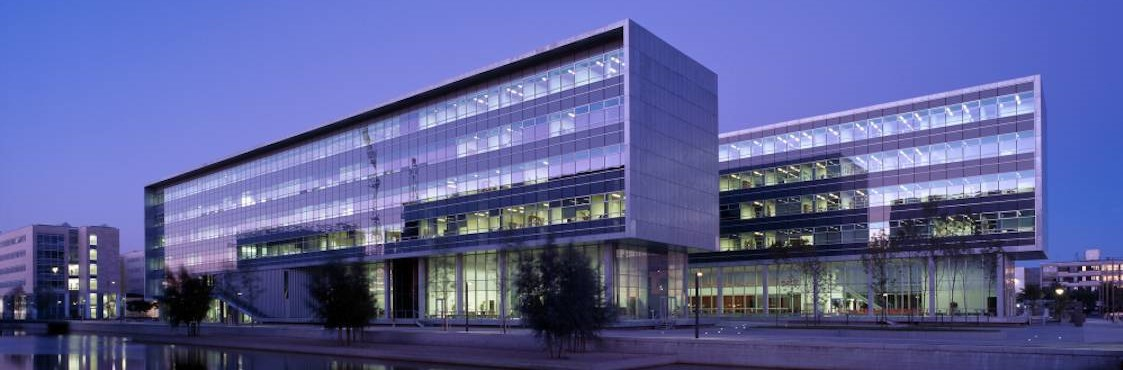
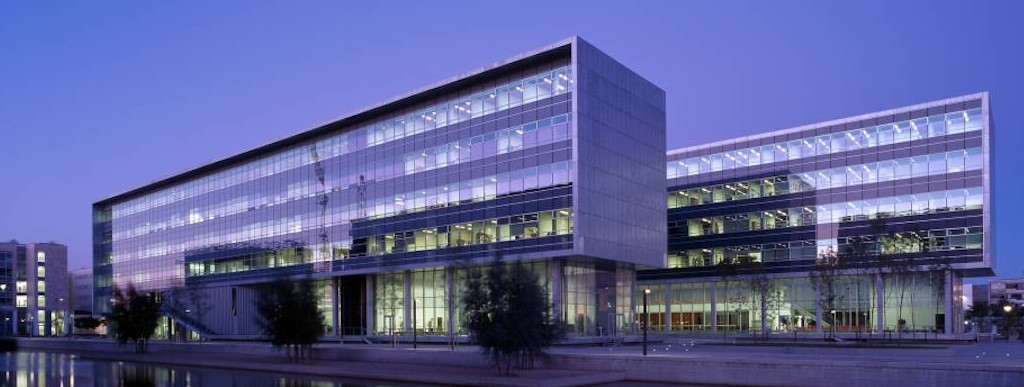
small changes for sponsors and add it to navbar

diff --git a/_includes/nav.html b/_includes/nav.html
@@ -90,7 +90,7 @@
                 <li><a href="/calls/acm-src">ACM Student Research Competition</a></li>
                 <li><a href="/calls/doctoral-symposium">Doctoral Symposium</a></li>
                 <li><a href="http://www.edusymp.org/2018/" target="_blank">Educators Symposium</a></li>
-                
+                <li><a href="/calls/sponsors">Sponsors Call</a></li>
               </ul>
             </li>
 

diff --git a/calls/sponsors/index.md b/calls/sponsors/index.md
@@ -3,7 +3,7 @@ layout: default
 slug: keynotes
 ---
 <div class="row">
- <div class="col-md-12" markdown="1">
+ <div class="col-md-11" markdown="1">
 
 <!-- <style type="text/css">
 .sponsor-pic {
@@ -29,10 +29,10 @@ slug: keynotes
 }	
 
 
-</style>
+</style> -->
 <div class="sponsor-pic">
-	<img src="/assets/copenhagen-pictures/copenhagen.png" alt="Nyhavn Copnehagen">
-</div> -->
+	<img src="/assets/copenhagen-pictures/copenhagen1.jpg" alt="Nyhavn Copnehagen">
+</div>
 
 # Call for Sponsors
 <span style="color:#808080"> **Become a Sponsor of Models 2018, and expose your organiation, company, product or service to hundreds of people interested in Model Driven Engineering, academics and engineers alike.**
